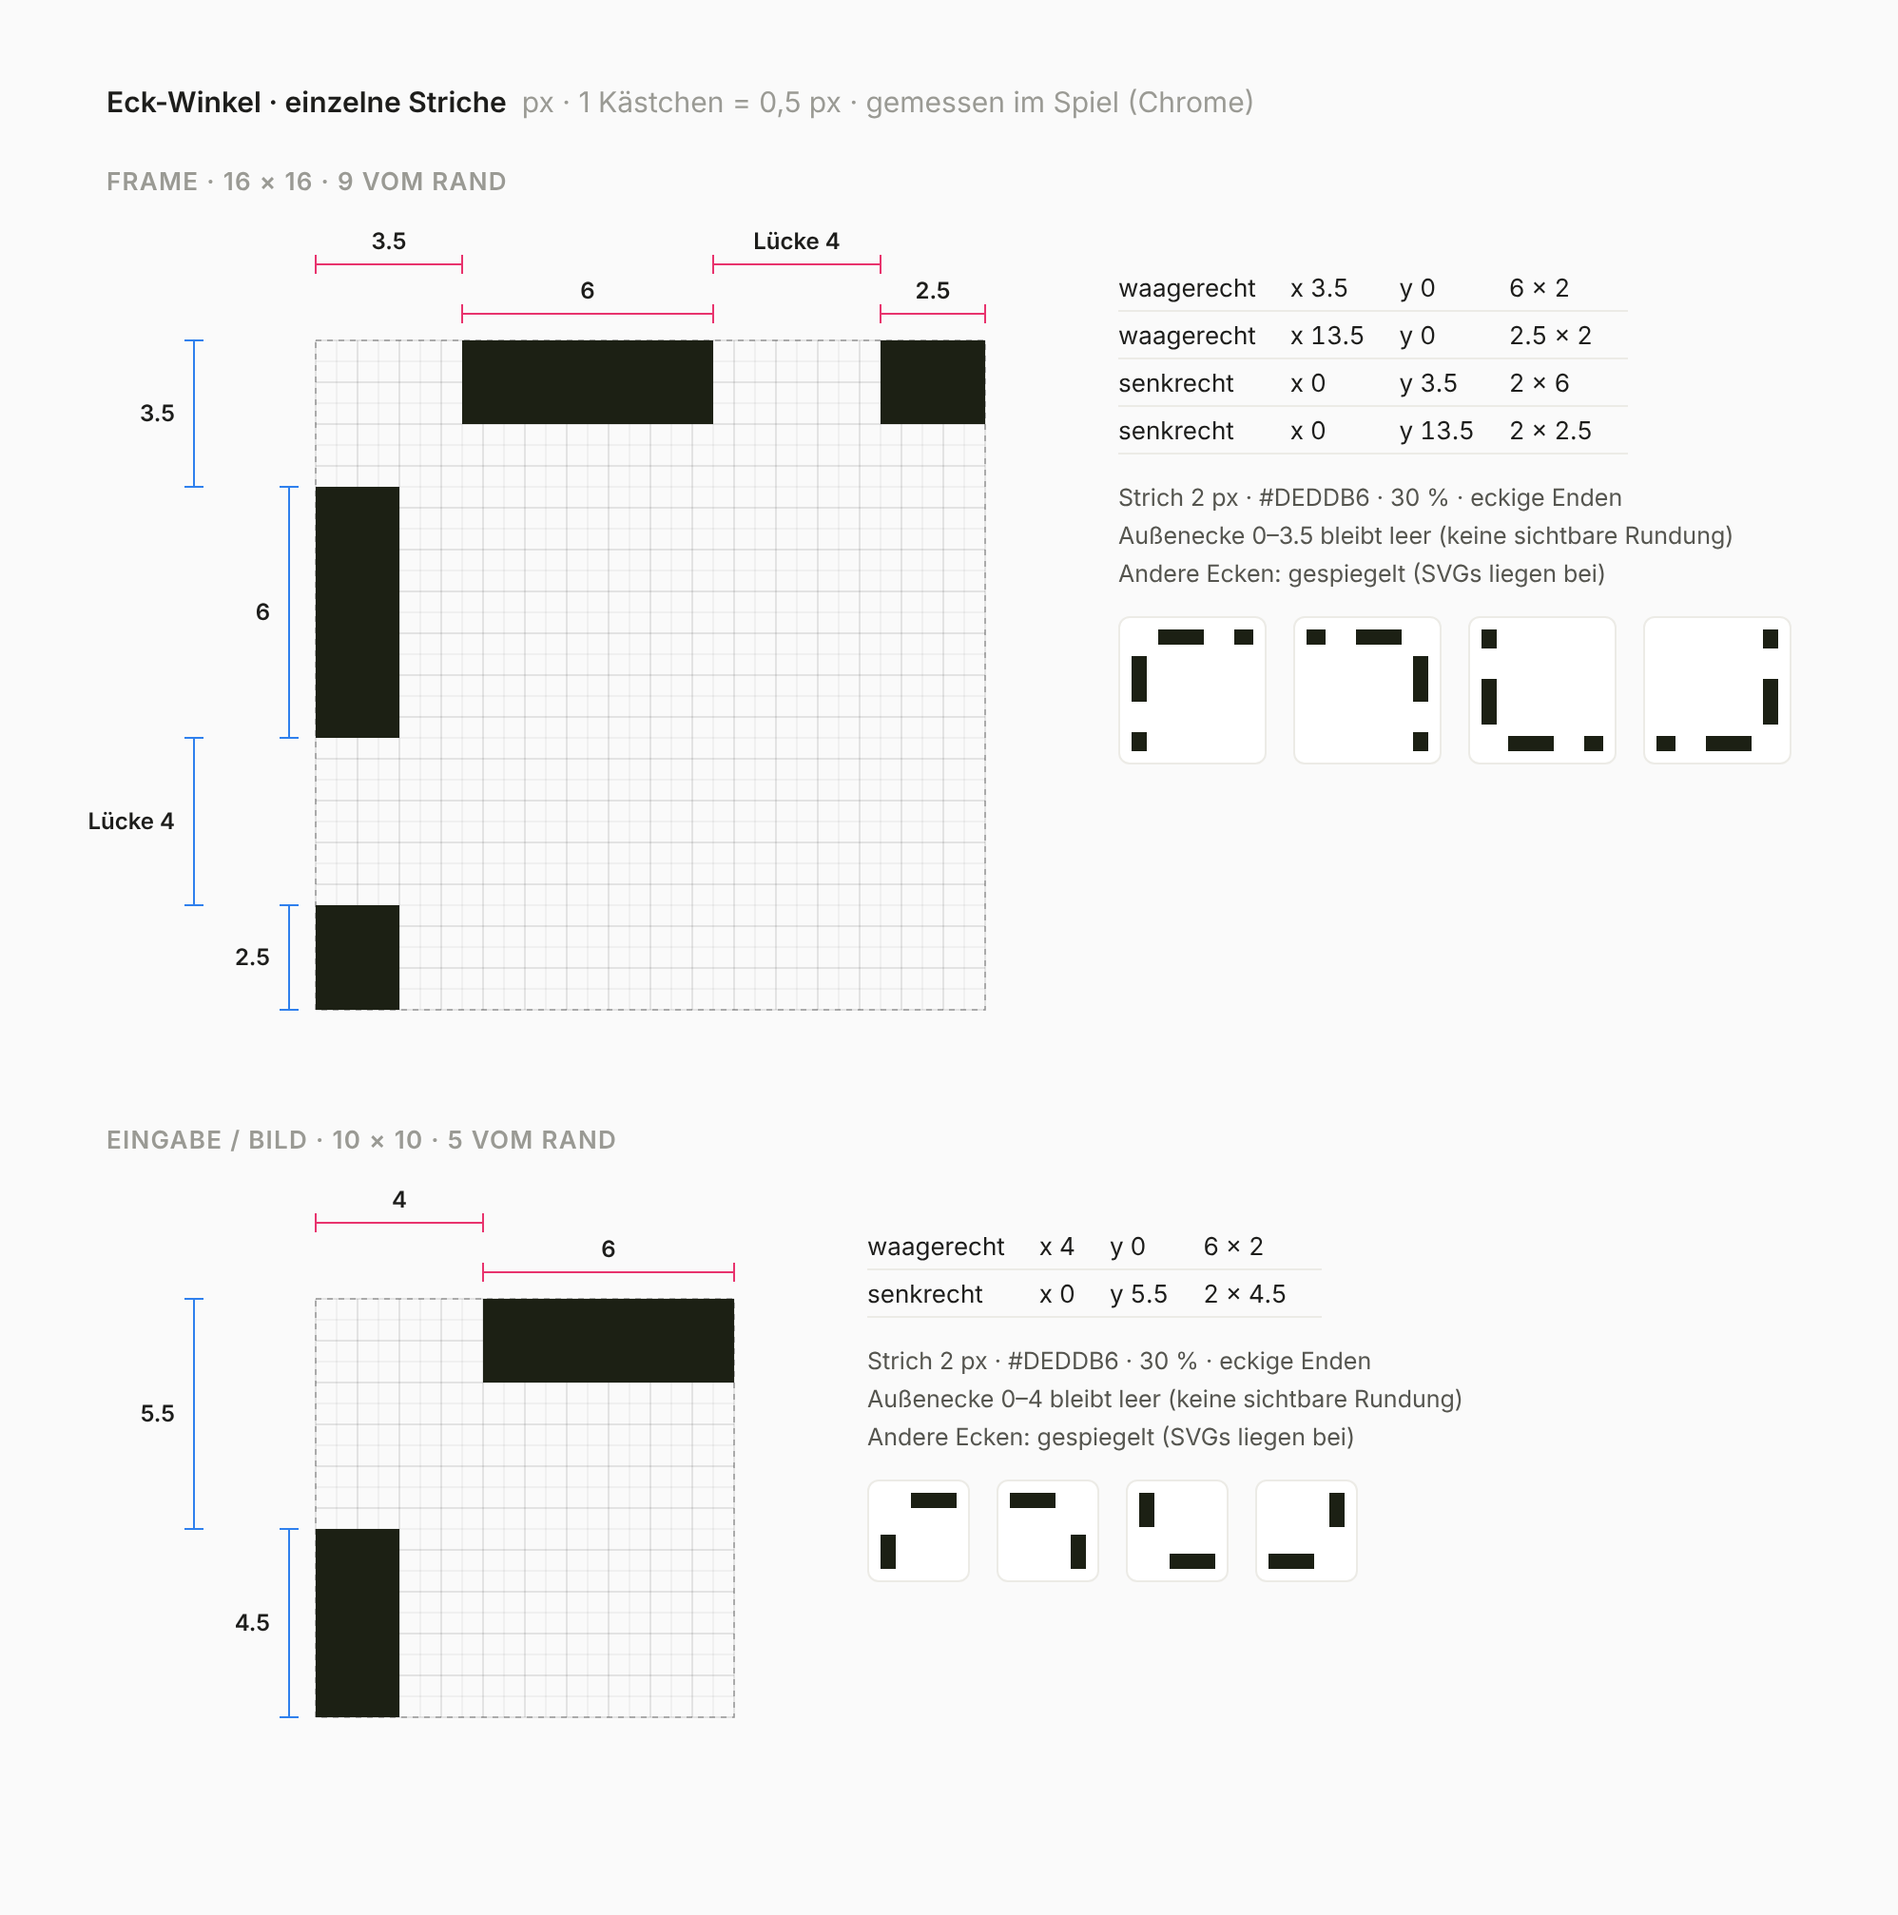
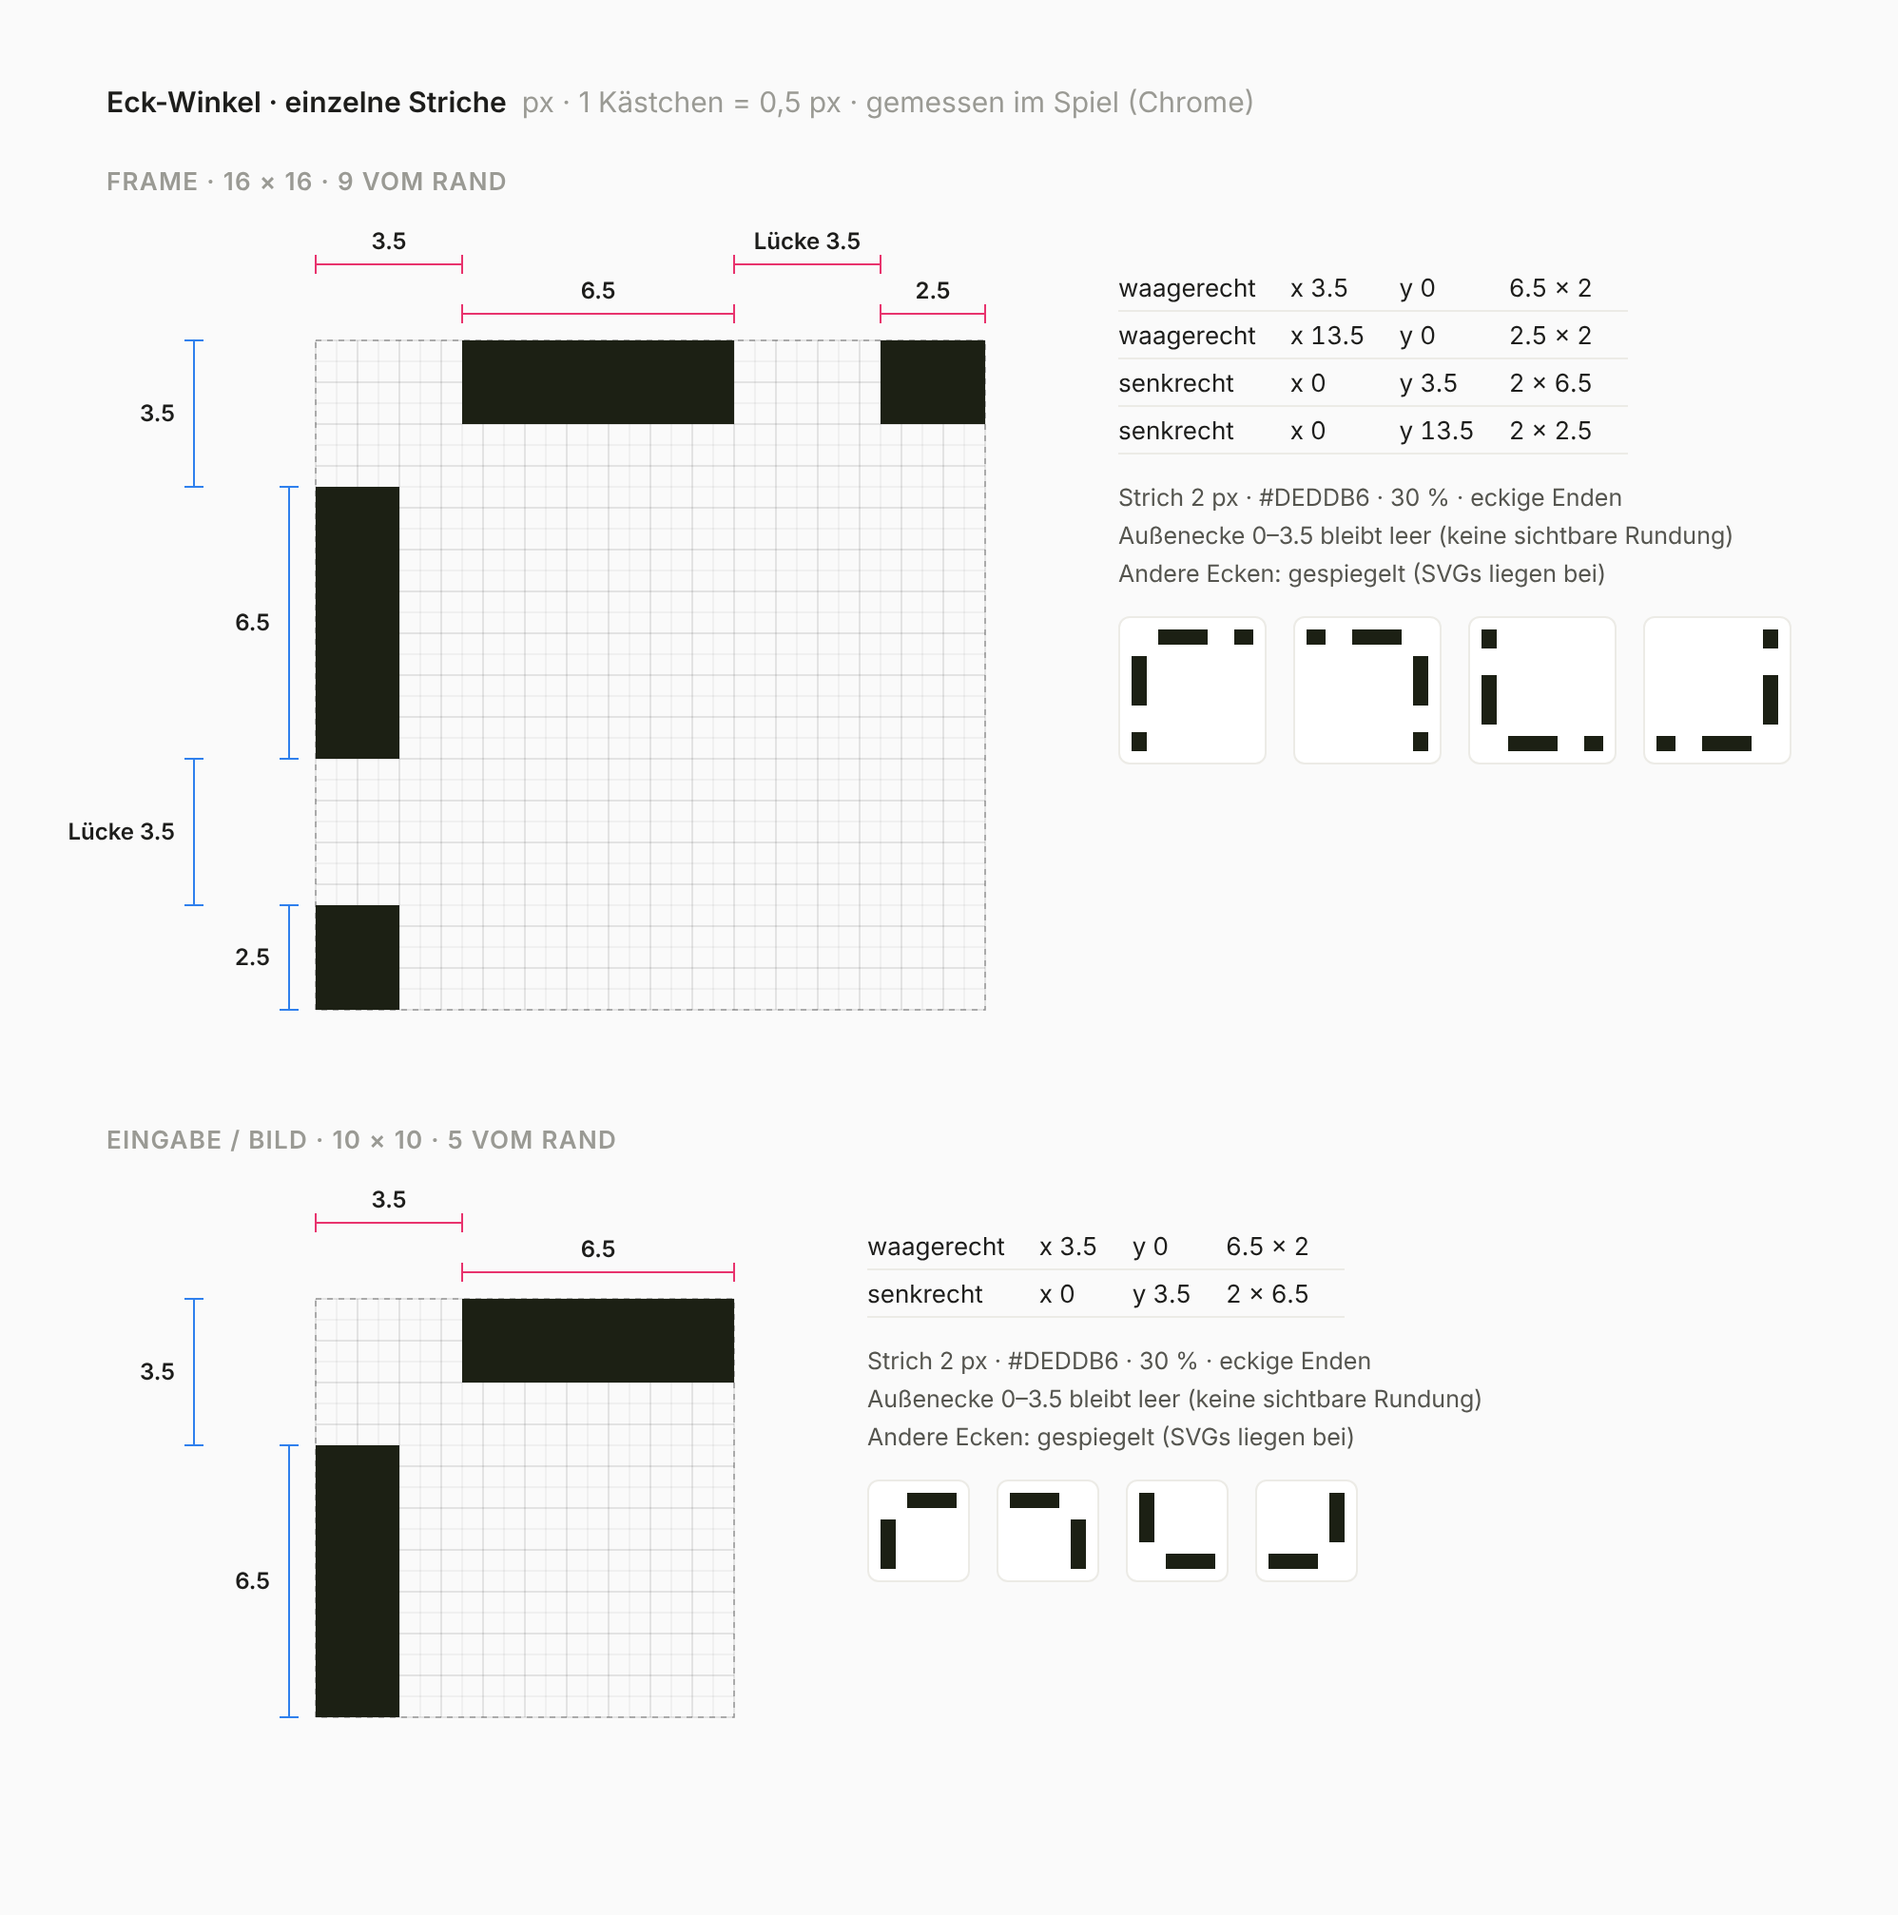
Design (crafting specs): corner marks 3.5 · 6.5 · 3.5 · 2.5 on both arms (10er: 3.5 · 6.5)
Claude-Session: https://claude.ai/code/session_01SdonzUkZukdS6Hs9N1LRbm

diff --git a/design/crafting-specs/specs.md b/design/crafting-specs/specs.md
@@ -25,13 +25,13 @@ Desktop 1440 × 900 · alle Werte in px · Schrift **Asciia Mono 400**
 | Craft | H | 200 × 56 · pad 0 34 · gap 16 · 17 px · r 7 |
 
 ## Eck-Winkel (einzelne Striche)
-Strich 2 px · #DEDDB6 · 30 % · eckige Enden · Strichlänge 6 (3 × Stärke), am Ende vom Rand gekürzt. Die Außenecke bleibt leer. Die Maße gelten für oben links und werden für die anderen Ecken gespiegelt.
+Strich 2 px · #DEDDB6 · 30 % · eckige Enden · Aufteilung je Arm: leer 3.5 · Strich 6.5 · Lücke 3.5 · Strich 2.5 = 16 (10er: leer 3.5 · Strich 6.5). Die Außenecke bleibt leer. Die Maße gelten für oben links und werden für die anderen Ecken gespiegelt.
 SVGs je Ecke: `shared/ecken/` (einzelne Rechtecke, direkt in Figma ziehen).
 
 | Winkel | waagerecht (x, Länge) | senkrecht (y, Länge) |
 |---|---|---|
-| Frame 16 × 16 · 9 vom Rand | 3.5 → 6 · 13.5 → 2.5 | 3.5 → 6 · 13.5 → 2.5 |
-| Eingabe / Bild 10 × 10 · 5 vom Rand | 4 → 6 | 5.5 → 4.5 |
+| Frame 16 × 16 · 9 vom Rand | 3.5 → 6.5 · 13.5 → 2.5 | 3.5 → 6.5 · 13.5 → 2.5 |
+| Eingabe / Bild 10 × 10 · 5 vom Rand | 3.5 → 6.5 | 3.5 → 6.5 |
 
 ## Variante 1 · Pre-Clarification
 | Komponente | Maße |
